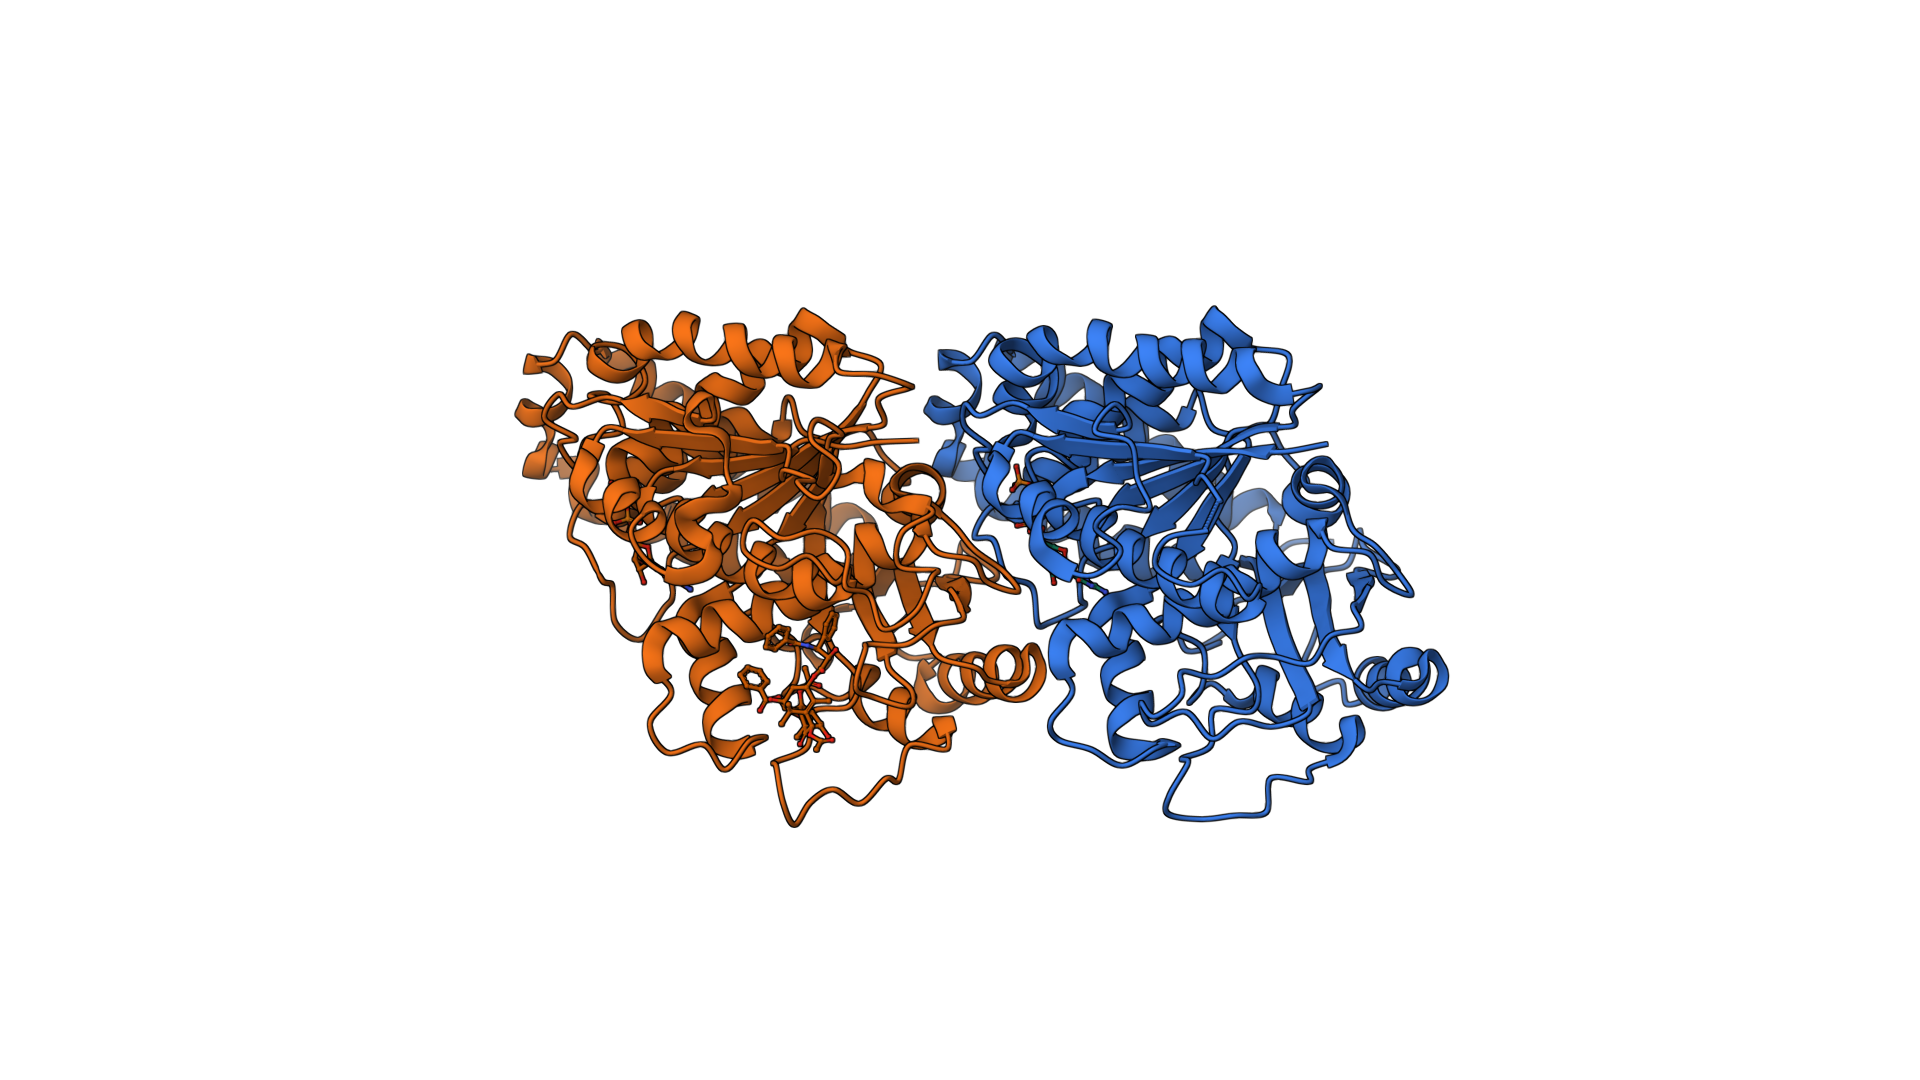
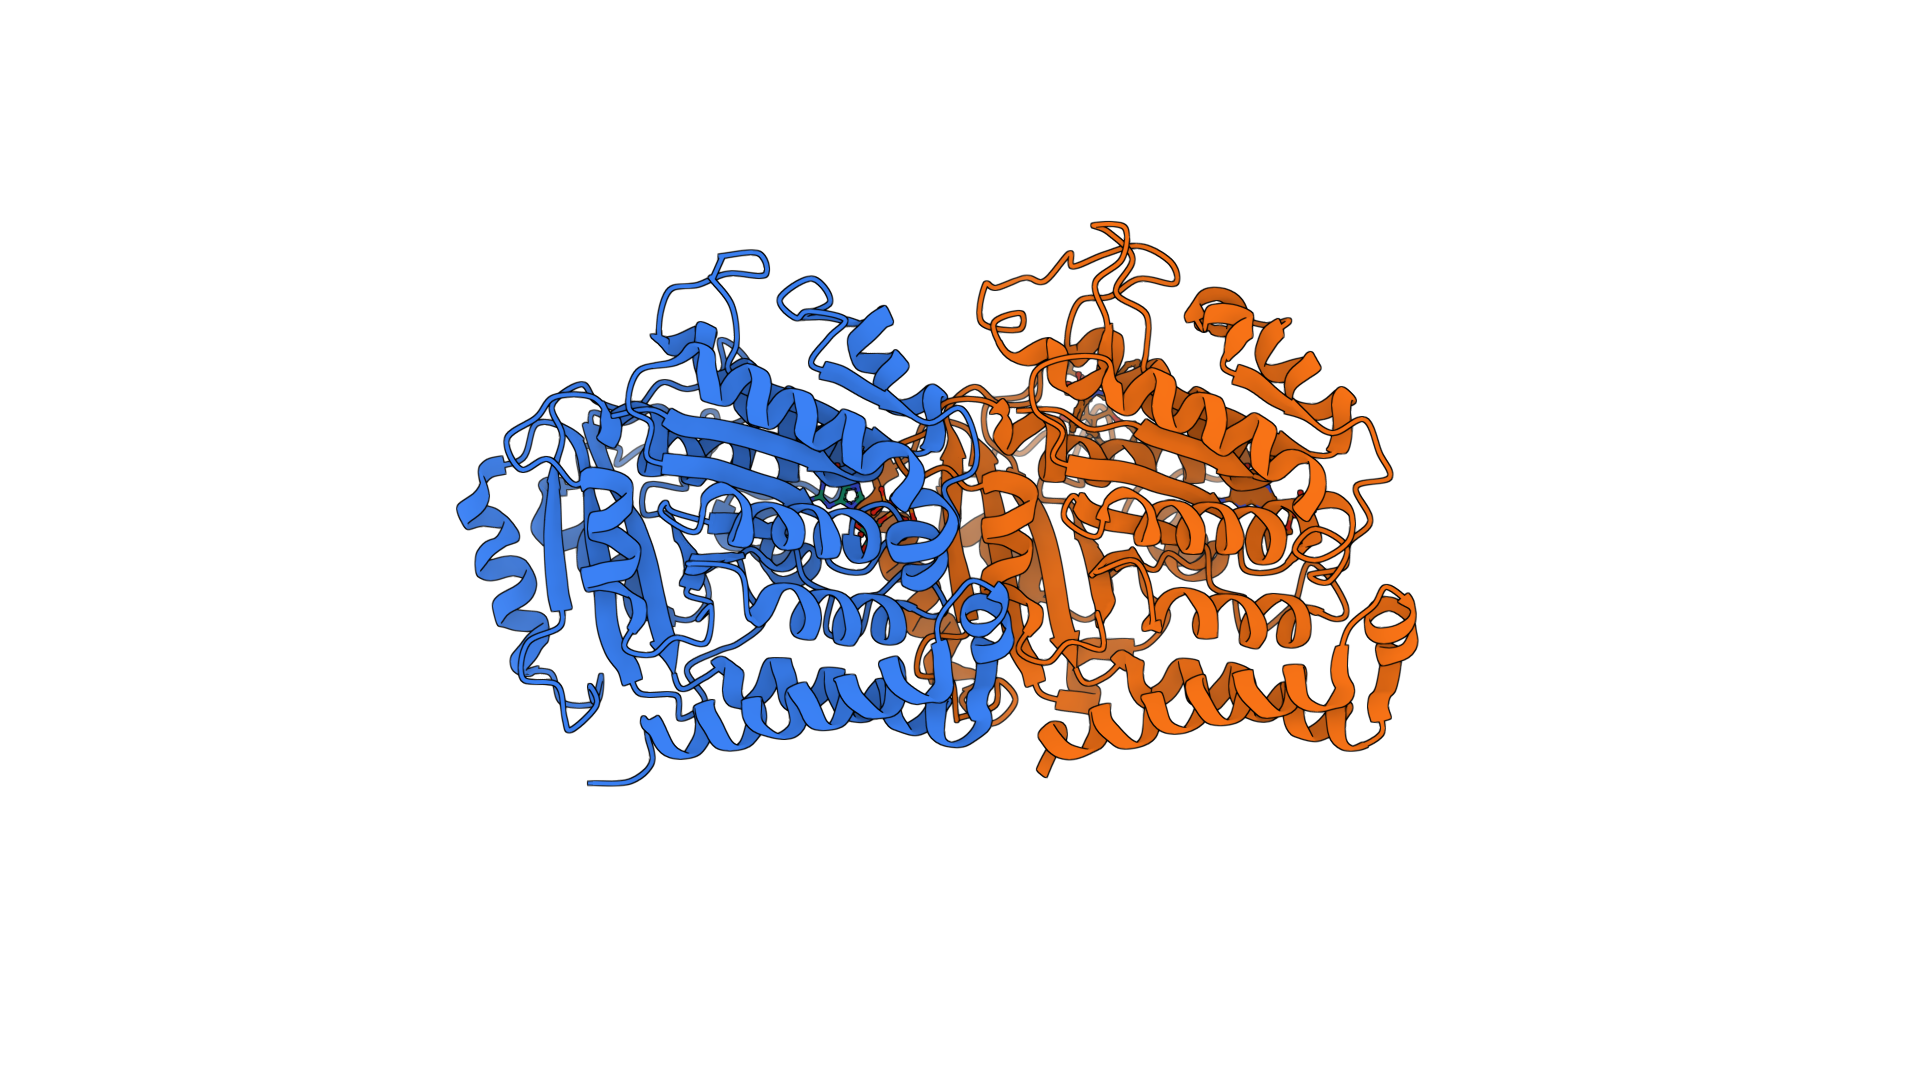
bulksaver orientations

Changed region(s): [[0.2188, 0.1833, 0.7812, 0.7639]]

diff --git a/scripts/bulk-render.ts b/scripts/bulk-render.ts
@@ -11,6 +11,7 @@ import * as path from 'path';
 import { applyStylizedLighting } from '@/components/molstar/colors/stylized-lighting';
 import { STYLIZED_POSTPROCESSING } from '@/components/molstar/rendering/postprocessing-config';
 import { PluginStateObject } from 'molstar/lib/mol-plugin-state/objects';
+import { changeCameraRotation, structureLayingTransform } from 'molstar/lib/mol-plugin-state/manager/focus-camera/orient-axes';
 
 async function renderStructure(
     plugin: HeadlessPluginContext,
@@ -82,17 +83,31 @@ async function renderStructure(
         // Ensure output directory exists
         fs.mkdirSync(path.dirname(outputPath), { recursive: true });
 
-        // Render and save image WITH postprocessing props
-        console.log(`  📸 Rendering image with stylized lighting...`);
-        await plugin.saveImage(
-            outputPath,
-            { width: 1920, height: 1080 },
-            STYLIZED_POSTPROCESSING  // 👈 Pass postprocessing here!
+
+        // Calculate optimal camera orientation  
+        const structCells = plugin.state.data.selectQ(q =>
+            q.ofType(PluginStateObject.Molecule.Structure)
         );
+        const structures = structCells
+            .filter(cell => cell.obj && !cell.obj.data.parent)
+            .map(cell => cell.obj!.data);
+
+        if (structures.length > 0 && plugin.canvas3d) {
+            // Get PCA-based rotation  
+            const { rotation } = structureLayingTransform(structures);
+
+            // Get current camera snapshot and apply rotation  
+            const currentSnapshot = plugin.canvas3d.camera.getSnapshot();
+            const newSnapshot = changeCameraRotation(currentSnapshot, rotation);
+
+            // Apply immediately (synchronous)  
+            plugin.canvas3d.camera.setState(newSnapshot);
+        }
+
+        // Now render  
+        await plugin.saveImage(outputPath, { width: 1920, height: 1080 }, STYLIZED_POSTPROCESSING);
 
         console.log(`  ✅ Saved ${pdbId} to ${outputPath}`);
-
-        // Clear for next structure
         await plugin.clear();
 
         return true;
